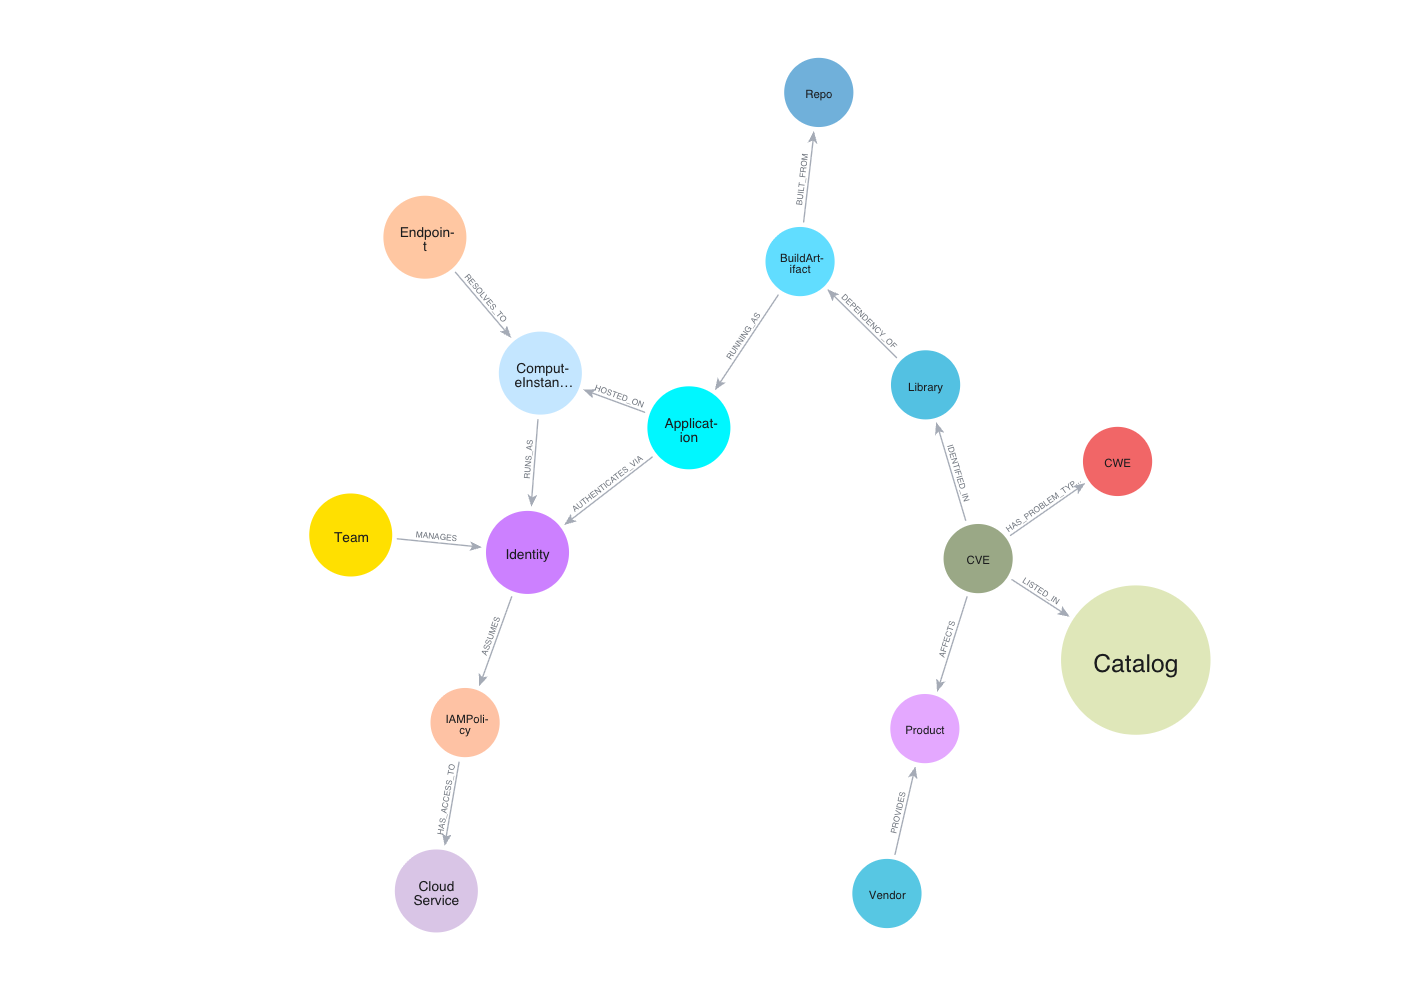
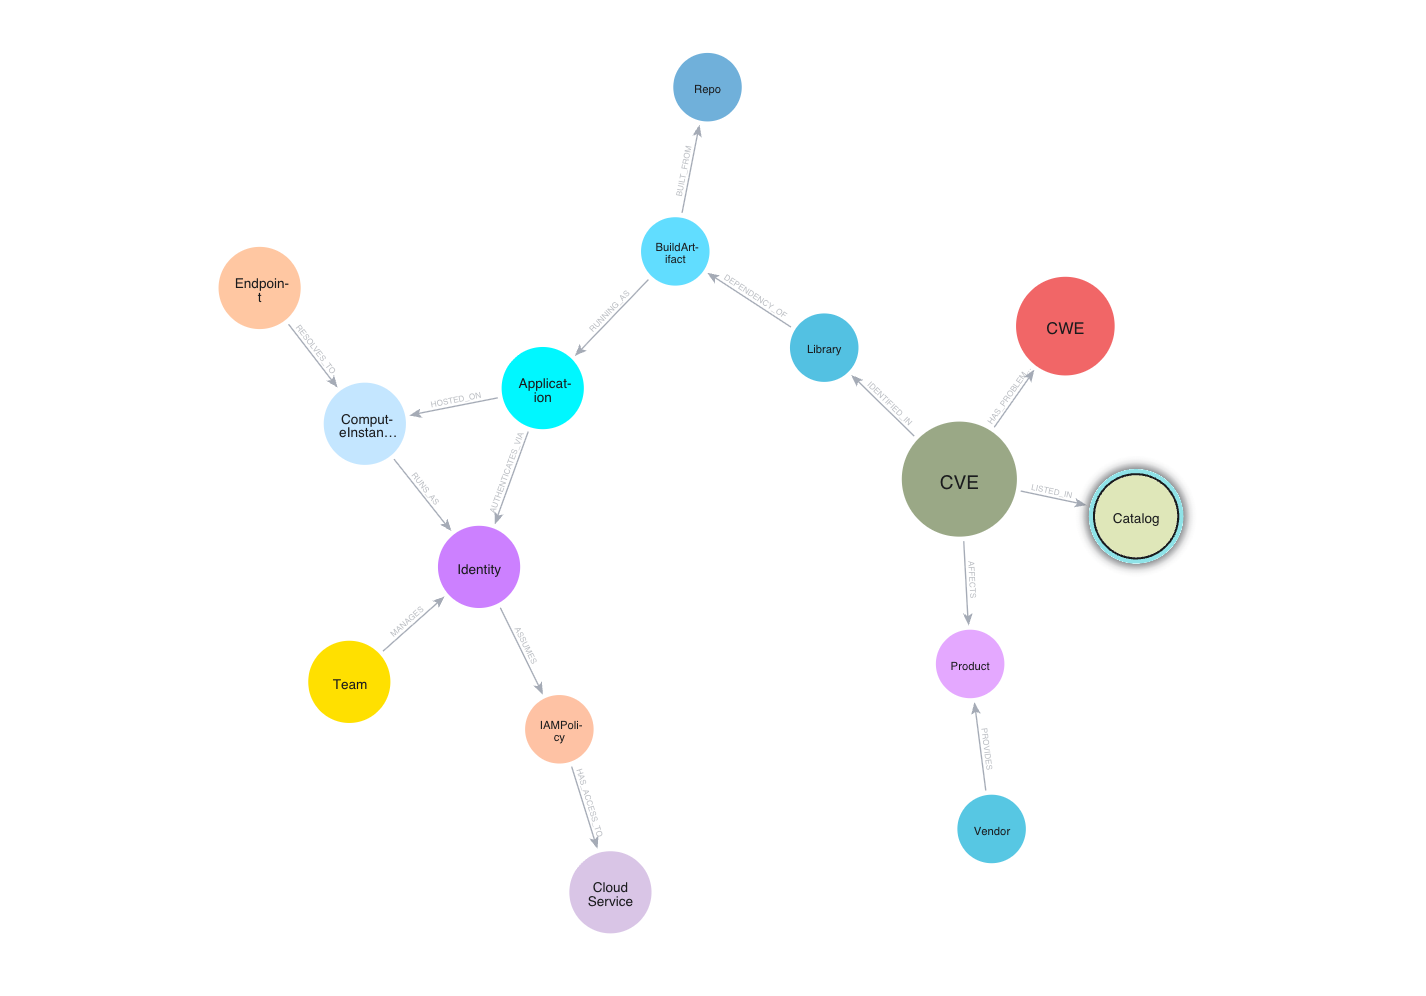
Latest changes

diff --git a/README.md b/README.md
@@ -68,11 +68,34 @@ The architecture would follow a standard **Extract, Load, Transform (ELT)** patt
 
 Depending on an organization's needs, this architecture can be extended with additional data sources, integration points, etc.
 
-### System Integration
+### Outward System Integration
 
-The output of this architecture is typically consumed by:
+The VPEM graph acts as a **central nervous system** for security data. Its value is fully realized when the prioritized insights are pushed back into the tools where developers and security analysts spend their time.
 
-* **Security Operations (SIEM/SOAR):** To prioritize incoming alerts based on the "Blast Radius" of the affected asset.
-* **Engineering Teams:** To receive curated "Top 10" lists of library updates that provide the maximum risk reduction for their specific repositories.
-* **Compliance & Audit:** To visualize and report on the "Aging" of vulnerabilities on critical PII-bearing systems.
+#### Security Operations (SIEM/SOAR)
+
+Modern SIEMs (like Splunk or Sentinel) are often overwhelmed by alerts. Integrating the VPEM graph allows for **Contextual Alert Enrichment**:
+
+* **Dynamic Severity:** When an IDS/IPS detects an attack, the SOAR platform queries Neo4j to see if the targeted asset is actually vulnerable to that specific exploit and if it has a high "Blast Radius."
+* **Automated Containment:** If a "Scenario C" (Recent KEV + Public IP) vulnerability is detected, the SOAR can automatically trigger an isolation policy in the Cloud environment until a patch is applied.
+
+#### Engineering & DevOps (Ticketing & CI/CD)
+
+To bridge the gap between Security and Engineering, the graph provides **Remediation Intelligence**:
+
+* **Jira/GitHub Issues:** Instead of bulk-exporting 1,000 vulnerabilities, the system creates a single ticket for a Repository owner. The ticket identifies the specific **Library** that needs an upgrade to resolve the highest number of reachable vulnerabilities.
+* **Policy as Code (Guardrails):** The CI/CD pipeline can query the graph during a build. If a new deployment would create a "Lateral Movement" path to a Crown Jewel (P0) asset, the build can be automatically failed.
+
+#### Vulnerability Management (VM) & GRC
+
+For compliance and executive reporting, the graph provides **Strategic Risk Metrics**:
+
+* **SLA Tracking:** Integration with GRC tools (like Archer or ServiceNow) allows for tracking "Vulnerability Aging" specifically on critical assets, ensuring the organization meets CISA KEV remediation deadlines.
+* **Risk Dashboarding:** Business leaders receive high-level views of "Aggregate Risk by Business Unit," allowing them to allocate security budget to the teams or products with the highest contextual exposure.
+
+#### Real-time Notifications (ChatOps)
+
+Immediate alerts for "High-Urgency" scenarios ensure that critical threats are handled within minutes:
+
+* **Slack/Teams Integration:** Pushing "Scenario C" alerts directly to the #AppSec or #Incident-Response channels when a newly exploited CVE is detected on an internet-facing production instance.
 
